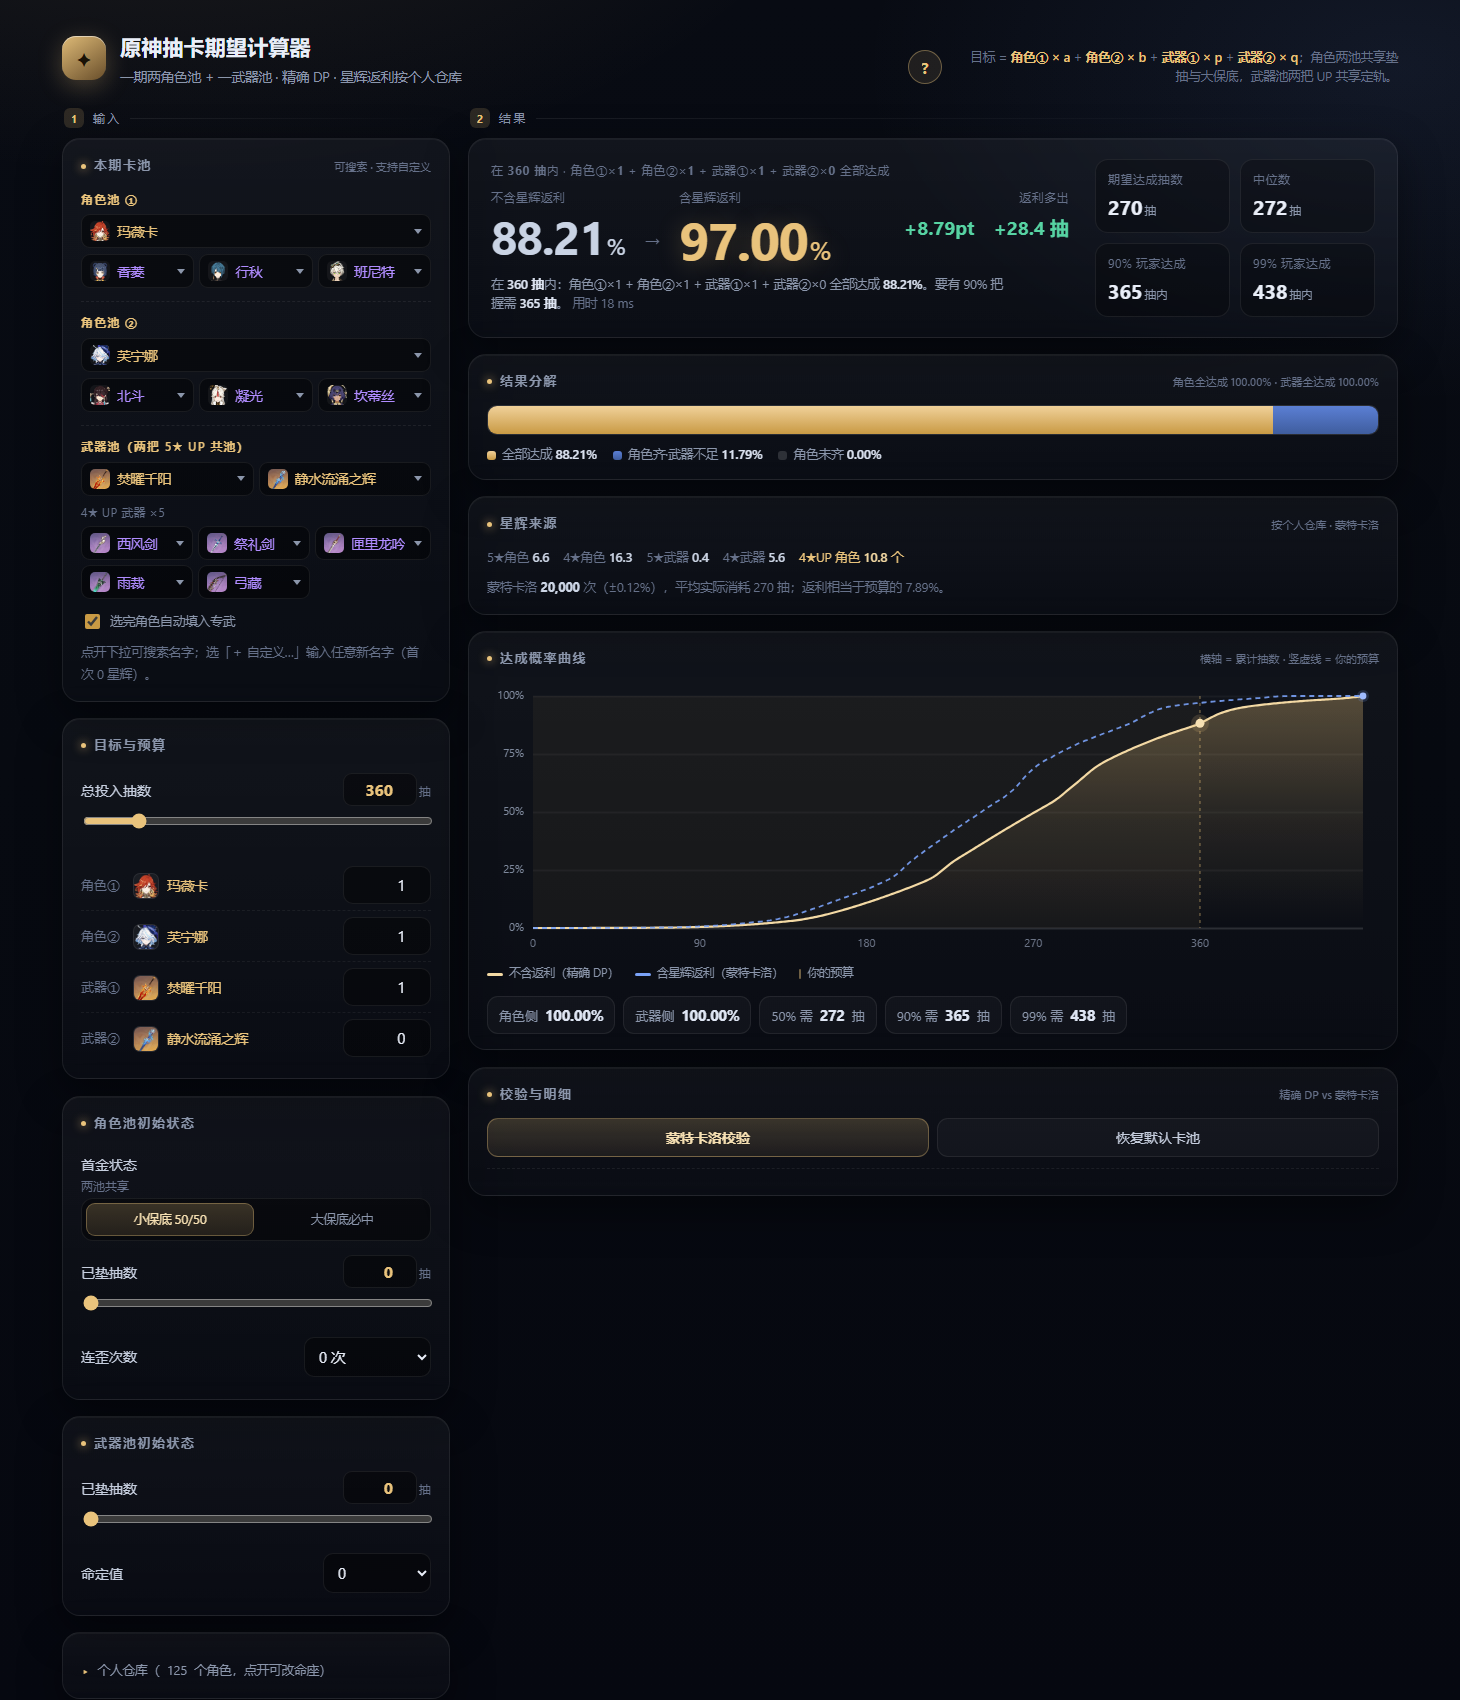
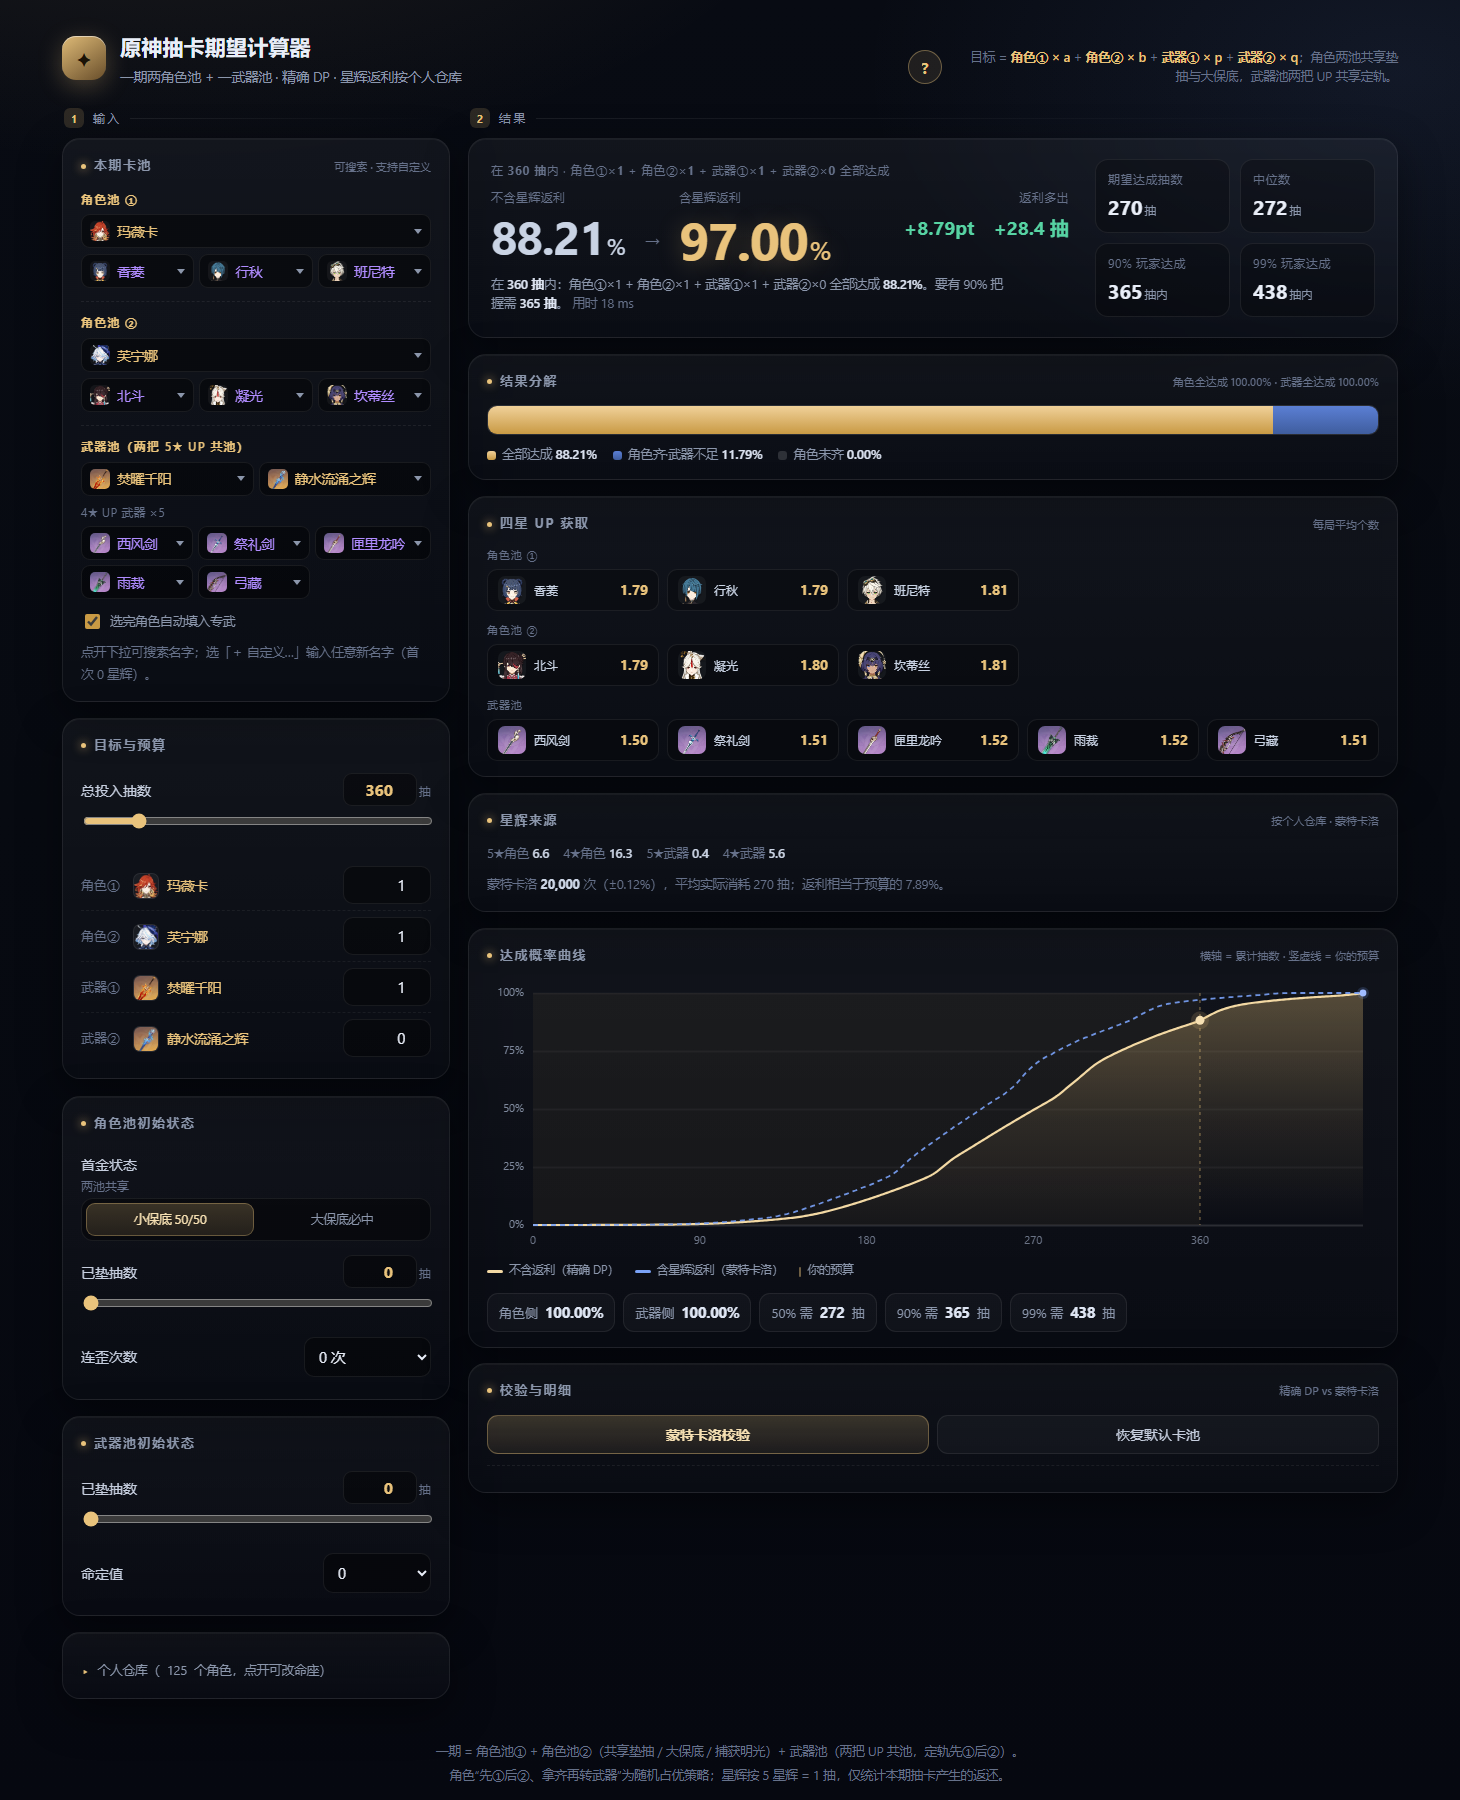
新增「四星 UP 获取」卡片：每个 UP 四星角色/武器平均个数
- 从星辉来源里移除总数（口径容易误解）
- 独立卡片按卡池分组展示 6 个角色 + 5 把武器各自的平均数
- 命令行同步输出

diff --git a/index.html b/index.html
@@ -378,6 +378,16 @@
     color:var(--muted);cursor:pointer;user-select:none}
   .autosig input{width:15px;height:15px;accent-color:#c99a44;cursor:pointer}
   .autosig:hover{color:#c6cede}
+  .upstats{margin-top:-2px}
+  .upsec{font-size:11px;color:var(--muted2);letter-spacing:.08em;margin:10px 0 6px}
+  .upgrid{display:grid;grid-template-columns:repeat(auto-fill,minmax(150px,1fr));gap:8px}
+  .upitem{display:flex;align-items:center;gap:8px;background:rgba(0,0,0,.24);
+    border:1px solid var(--line);border-radius:10px;padding:6px 10px}
+  .upitem img{width:28px;height:28px;border-radius:7px;object-fit:cover;flex:none;
+    background:rgba(255,255,255,.05)}
+  .upitem .n{flex:1;min-width:0;font-size:12px;color:#c9d3e4;overflow:hidden;
+    text-overflow:ellipsis;white-space:nowrap}
+  .upitem b{font-size:14px;color:var(--gold);font-variant-numeric:tabular-nums}
   .picons{display:flex;gap:6px;flex-wrap:wrap;margin-top:9px}
   .pchip{display:flex;flex-direction:column;align-items:center;gap:3px;width:42px}
   .pchip img{width:37px;height:37px;border-radius:11px;object-fit:cover;
@@ -486,6 +496,7 @@
       <ul>
         <li><b>达成概率曲线</b>：金色实线 = 不含返利，蓝色虚线 = 含返利，竖虚线是你的预算</li>
         <li><b>结果分解</b>：全部达成 / 角色齐但武器不足 / 角色未齐</li>
+        <li><b>四星 UP 获取</b>：每个 UP 四星角色 / 武器平均抽到几个</li>
         <li><b>星辉来源</b>：四种稀有度各贡献多少抽</li>
         <li><b>校验</b>：用蒙特卡洛独立复核精确值，两者应在 1σ 内</li>
       </ul>
@@ -673,6 +684,11 @@
           <div><i style="background:linear-gradient(180deg,#5b7fd4,#3f5d9e)"></i>角色齐·武器不足 <b id="lgB">—</b></div>
           <div><i style="background:rgba(255,255,255,.14)"></i>角色未齐 <b id="lgC">—</b></div>
         </div>
+      </section>
+
+      <section class="card">
+        <h2>四星 UP 获取<span class="tag">每局平均个数</span></h2>
+        <div id="upStats" class="upstats"></div>
       </section>
 
       <section class="card">
@@ -1219,10 +1235,34 @@
       $('#slBook').innerHTML = '<span>5★角色 <b>' + (r.book.c5 / 5).toFixed(1) + '</b></span>' +
         '<span>4★角色 <b>' + (r.book.c4 / 5).toFixed(1) + '</b></span>' +
         '<span>5★武器 <b>' + (r.book.w5 / 5).toFixed(1) + '</b></span>' +
-        '<span>4★武器 <b>' + (r.book.w4 / 5).toFixed(1) + '</b></span>' +
-        '<span class="hi">4★UP 角色 <b>' + r.up4.toFixed(1) + '</b> 个</span>';
+        '<span>4★武器 <b>' + (r.book.w4 / 5).toFixed(1) + '</b></span>';
+      renderUpStats(r);
       $('#slTag').textContent = '按个人仓库 · 蒙特卡洛';
     }, 20);
+  }
+
+  /* ---------- 四星 UP 每个的获取数 ---------- */
+  function renderUpStats(r) {
+    var pl = poolsOf();
+    var groups = [
+      ['角色池 ①', 'char', pl.charA.up4, r.up4n],
+      ['角色池 ②', 'char', pl.charB.up4, r.up4n],
+      ['武器池', 'wep', pl.weapon.up4, r.wup4n]
+    ];
+    var html = '';
+    groups.forEach(function (g) {
+      var list = (g[2] || []).filter(Boolean);
+      if (!list.length) return;
+      html += '<div class="upsec">' + g[0] + '</div><div class="upgrid">';
+      list.forEach(function (n) {
+        var v = (g[3] && g[3][n] != null) ? g[3][n] : 0;
+        var src = (g[1] === 'wep' ? 'assets/weapon/' : 'assets/char/') + n + '.webp';
+        html += '<div class="upitem"><img loading="lazy" src="' + src + '" onerror="this.remove()">' +
+          '<span class="n" title="' + n + '">' + n + '</span><b>' + v.toFixed(2) + '</b></div>';
+      });
+      html += '</div>';
+    });
+    $('#upStats').innerHTML = html || '<div class="note">先填卡池</div>';
   }
 
   /* ---------- 图表 ---------- */

diff --git a/starlight.js b/starlight.js
@@ -94,7 +94,7 @@
     var cs = { pity: init.charPity || 0, g: !!init.charGuaranteed, s: init.charStreak || 0, p4: 0, c4n: 0, w4n: 0 };
     var ws = { pity: init.weaponPity || 0, f: init.weaponFate || 0, p4: 0 , c4n: 0, w4n: 0 };
     var gotA = 0, gotB = 0, gotW1 = 0, gotW2 = 0;
-    var cnt = { c4: 0, w4: 0, c5: 0, w5: 0, up4: 0 };   // up4 = 四星 UP 角色个数
+    var cnt = { c4: 0, w4: 0, c5: 0, w5: 0, up4: 0, up4n: {}, wup4n: {} };
 
     while (gotA < A || gotB < B || gotW1 < P_ || gotW2 < Q) {
       if (pulls >= N + bought) break;
@@ -128,7 +128,11 @@
         cs.p4 += 1; cs.c4n++; cs.w4n++;
         if (rng() < (cs.p4 >= 10 ? 1 : 0.051)) {
           cs.p4 = 0;
-          if (rng() < 0.5) { gainChar(pick(pool.up4), 4); cnt.up4++; }
+          if (rng() < 0.5) {
+            var un = pick(pool.up4);
+            gainChar(un, 4); cnt.up4++;
+            cnt.up4n[un] = (cnt.up4n[un] || 0) + 1;
+          }
           else {
             var wc = W4C(cs.c4n), ww = W4W(cs.w4n);
             if (std4weapons.length && rng() < ww / (wc + ww)) { gainWeapon(pick(std4weapons), 4); cs.w4n = 0; }
@@ -174,7 +178,11 @@
         ws.p4 += 1; ws.c4n++; ws.w4n++;
         if (rng() < (ws.p4 >= 10 ? 1 : 0.051)) {
           ws.p4 = 0;
-          if (wup4.length && rng() < 0.75) { gainWeapon(pick(wup4), 4); ws.w4n = 0; }
+          if (wup4.length && rng() < 0.75) {
+            var wn = pick(wup4);
+            gainWeapon(wn, 4); ws.w4n = 0;
+            cnt.wup4n[wn] = (cnt.wup4n[wn] || 0) + 1;
+          }
           else {
             var wcw = W4WC(ws.c4n), www = W4WW(ws.w4n);
             if (std4weapons.length && rng() < www / (wcw + www)) { gainWeapon(pick(std4weapons), 4); ws.w4n = 0; }
@@ -197,12 +205,15 @@
     var runs = opts.runs || 20000;
     var rng = opts.seed != null ? root.GachaEngine.mulberry32(opts.seed) : Math.random;
     var H = Math.max(N, Math.floor(opts.horizon || N));   // 曲线画到 horizon，统计仍按 N
-    var ok = 0, extra = 0, used = 0, up4sum = 0;
+    var ok = 0, extra = 0, used = 0, up4sum = 0, up4n = {}, wup4n = {};
     var book = { c5: 0, c4: 0, w5: 0, w4: 0 };
     var hist = new Float64Array(H + 1);
     for (var i = 0; i < runs; i++) {
       var r = simulate(H, A, B, P_, Q, data, pools, opts.cfg, rng, opts.anyUp, opts.init, opts.noRefund);
       extra += r.bought; used += r.pulls; up4sum += r.cnt.up4;
+      var kk;
+      for (kk in r.cnt.up4n) up4n[kk] = (up4n[kk] || 0) + r.cnt.up4n[kk];
+      for (kk in r.cnt.wup4n) wup4n[kk] = (wup4n[kk] || 0) + r.cnt.wup4n[kk];
       book.c5 += r.book.c5; book.c4 += r.book.c4;
       book.w5 += r.book.w5; book.w4 += r.book.w4;
       if (!r.done) continue;
@@ -217,6 +228,8 @@
       runs: runs, p: p, se: Math.sqrt(Math.max(0, p * (1 - p) / runs)),
       extra: extra / runs, pulls: used / runs, cdf: cdf,
       up4: up4sum / runs,
+      up4n: (function () { var o = {}; for (var k in up4n) o[k] = up4n[k] / runs; return o; })(),
+      wup4n: (function () { var o = {}; for (var k in wup4n) o[k] = wup4n[k] / runs; return o; })(),
       book: { c5: book.c5 / runs, c4: book.c4 / runs, w5: book.w5 / runs, w4: book.w4 / runs }
     };
   }

diff --git a/starlight.py b/starlight.py
@@ -102,7 +102,9 @@ class Sim:
         self.bought = 0
         self.pulls = 0
         self.book = {"char5": 0, "char4": 0, "weap5": 0, "weap4": 0}
-        self.up4 = 0          # 四星 UP 角色个数
+        self.up4 = 0          # 四星 UP 角色总数
+        self.up4n = {}         # 每个 UP 四星角色抽到几次
+        self.wup4n = {}        # 每个 UP 四星武器抽到几次
 
     def c_of(self, name):
         if name in self.overlay:
@@ -220,8 +222,10 @@ def simulate(N, A, B, P, Q, roster, pools, cfg, rng):
             if rng.random() < (1.0 if cs["p4"] >= 10 else 0.051):
                 cs["p4"] = 0
                 if rng.random() < 0.5:
-                    st.gain_char(rng.choice([n for n in pool["up4"] if n] or [pool["up5"]]), 4)
+                    _un = rng.choice([n for n in pool["up4"] if n] or [pool["up5"]])
+                    st.gain_char(_un, 4)
                     st.up4 += 1
+                    st.up4n[_un] = st.up4n.get(_un, 0) + 1
                 else:
                     wc, ww = w_stab(cs["c4n"], 255, 17, 2550), w_stab(cs["w4n"], 255, 17, 2550)
                     if std4weapons and rng.random() < ww / (wc + ww):
@@ -296,8 +300,10 @@ def simulate(N, A, B, P, Q, roster, pools, cfg, rng):
             if rng.random() < (1.0 if ws["p4"] >= 10 else 0.051):
                 ws["p4"] = 0
                 if wup4 and rng.random() < 0.75:
-                    st.gain_weapon(rng.choice(wup4), 4)
+                    _wn = rng.choice(wup4)
+                    st.gain_weapon(_wn, 4)
                     ws["w4n"] = 0
+                    st.wup4n[_wn] = st.wup4n.get(_wn, 0) + 1
                 else:
                     wcw = w_stab(ws["c4n"], 300, 14, 3000)
                     www = w_stab(ws["w4n"], 300, 14, 3000)
@@ -311,7 +317,8 @@ def simulate(N, A, B, P, Q, roster, pools, cfg, rng):
 
     return {"done": gotA >= A and gotB >= B and gotW1 >= P and gotW2 >= Q,
             "pulls": st.pulls, "bought": st.bought,
-            "got": (gotA, gotB, gotW1, gotW2), "book": st.book, "up4": st.up4}
+            "got": (gotA, gotB, gotW1, gotW2), "book": st.book,
+            "up4": st.up4, "up4n": st.up4n, "wup4n": st.wup4n}
 
 
 def monte_carlo(N, A, B, P, Q, roster, pools, runs=100_000, seed=20240828, cfg=None):
@@ -321,6 +328,7 @@ def monte_carlo(N, A, B, P, Q, roster, pools, runs=100_000, seed=20240828, cfg=N
     used = 0.0
     book = {"char5": 0.0, "char4": 0.0, "weap5": 0.0, "weap4": 0.0}
     up4_sum = 0
+    up4n, wup4n = {}, {}
     rng = random.Random(seed)
     for _ in range(runs):
         r = simulate(N, A, B, P, Q, roster, pools, cfg, rng)
@@ -329,11 +337,17 @@ def monte_carlo(N, A, B, P, Q, roster, pools, runs=100_000, seed=20240828, cfg=N
         extra += r["bought"]
         used += r["pulls"]
         up4_sum += r.get("up4", 0)
+        for _k, _v in r.get("up4n", {}).items():
+            up4n[_k] = up4n.get(_k, 0) + _v
+        for _k, _v in r.get("wup4n", {}).items():
+            wup4n[_k] = wup4n.get(_k, 0) + _v
         for k in book:
             book[k] += r["book"][k]
     p = ok / runs
     return {"runs": runs, "p": p, "se": math.sqrt(max(0.0, p * (1 - p) / runs)),
-            "extra": extra / runs, "up4": up4_sum / runs, "book": {k: v / runs for k, v in book.items()},
+            "extra": extra / runs, "up4": up4_sum / runs,
+            "up4n": {k: v / runs for k, v in up4n.items()},
+            "wup4n": {k: v / runs for k, v in wup4n.items()}, "book": {k: v / runs for k, v in book.items()},
             "pulls": used / runs}
 
 
@@ -451,9 +465,17 @@ def main(argv=None):
     print("星辉来源（每局平均换算成抽）")
     print(f"  5★角色 {b['char5'] / 5:6.2f}    4★角色 {b['char4'] / 5:6.2f}")
     print(f"  5★武器 {b['weap5'] / 5:6.2f}    4★武器 {b['weap4'] / 5:6.2f}")
-    print(f"  四星 UP 角色平均 {res.get('up4', 0):.2f} 个")
     tot = sum(b.values()) / 5
     print(f"  合计   {tot:.2f} 抽 ≈ 预算的 {tot / a.pulls * 100:.2f}%")
+    print()
+    print("四星 UP 每局平均个数")
+    for label, key, lst in (("角色池①", "up4n", pools["charA"]["up4"]),
+                            ("角色池②", "up4n", pools["charB"]["up4"]),
+                            ("武器池  ", "wup4n", pools["weapon"].get("up4") or [])):
+        m = res.get(key, {})
+        row = "  ".join(f"{n} {m.get(n, 0):.2f}" for n in lst if n)
+        if row:
+            print(f"  {label}  {row}")
     return 0
 
 
